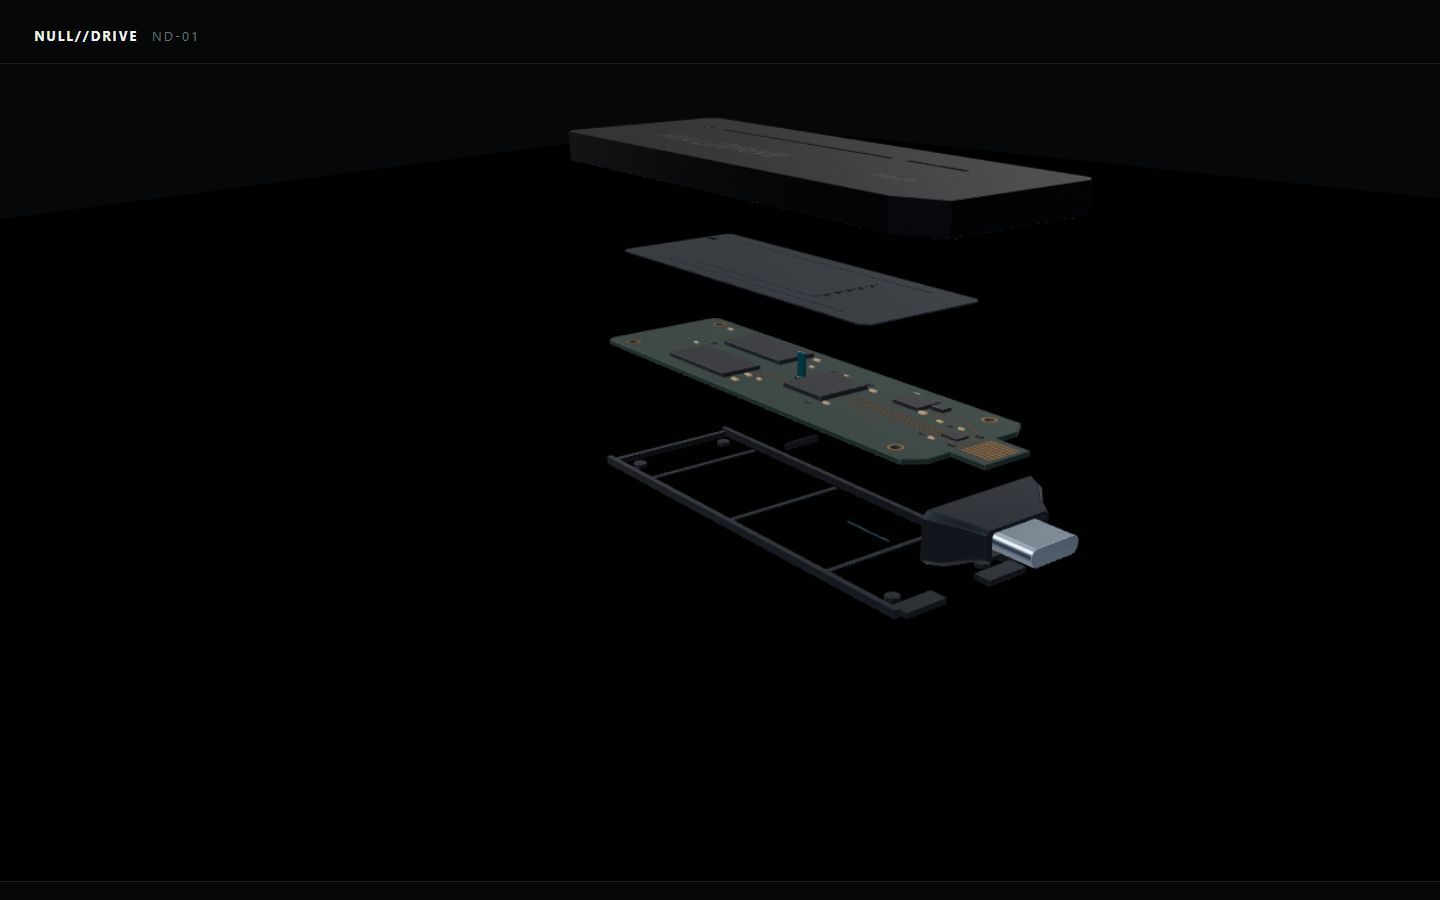
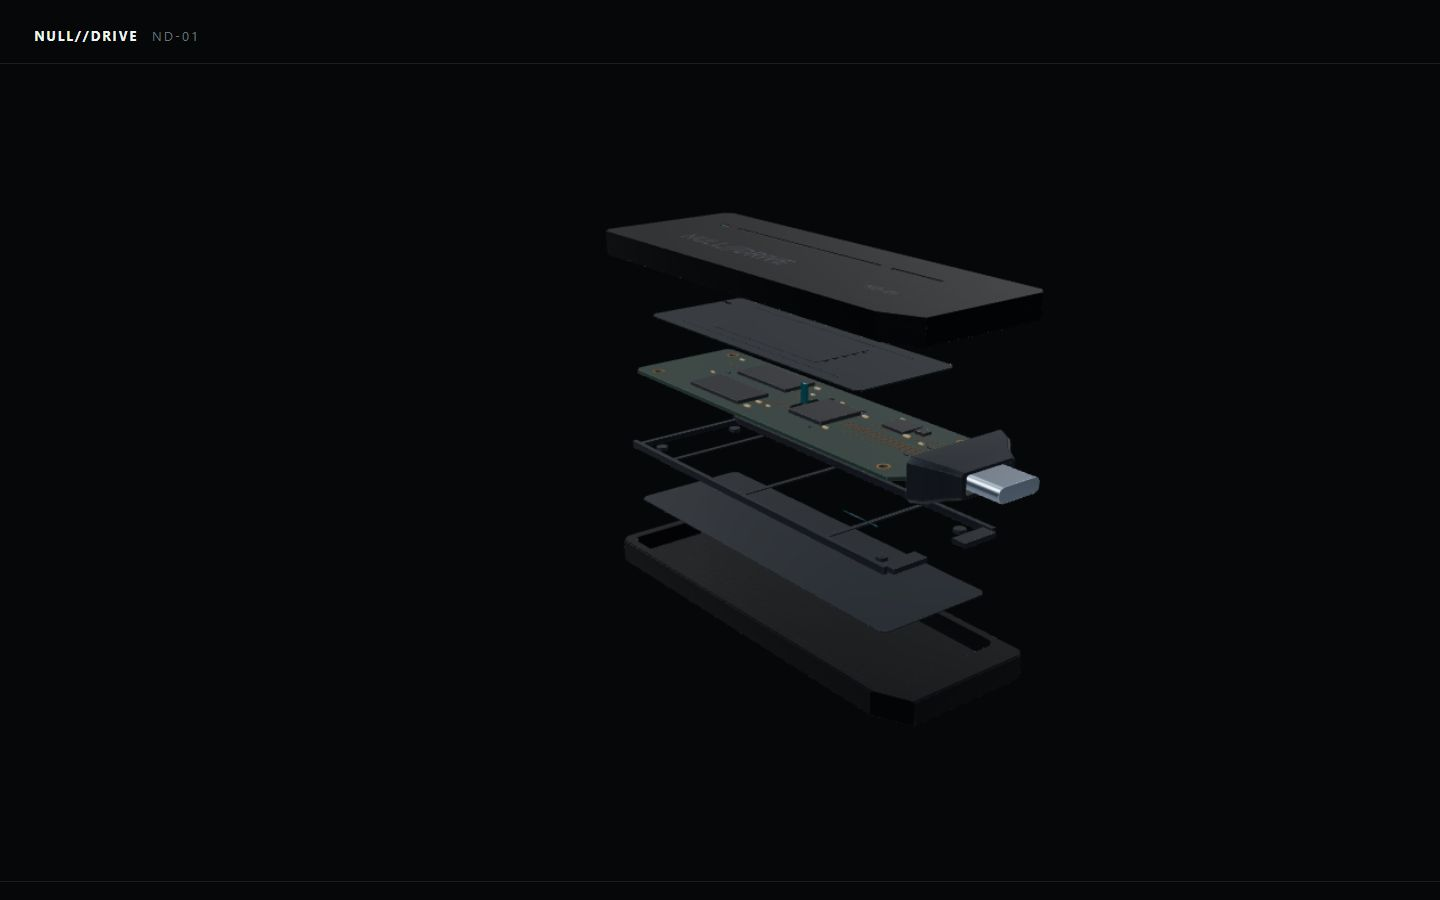
Remove ground-plane intersection

Changed region(s): [[0.4062, 0.2178, 0.75, 0.7778], [0.4062, 0.1244, 0.75, 0.2489]]

diff --git a/src/components/NullDriveScene.jsx b/src/components/NullDriveScene.jsx
@@ -1,6 +1,6 @@
 import { useEffect, useLayoutEffect, useMemo, useRef } from 'react'
 import { useFrame, useThree } from '@react-three/fiber'
-import { ContactShadows, OrbitControls, useGLTF } from '@react-three/drei'
+import { OrbitControls, useGLTF } from '@react-three/drei'
 import * as THREE from 'three'
 import { RoomEnvironment } from 'three/addons/environments/RoomEnvironment.js'
 
@@ -32,12 +32,29 @@ export const REQUIRED_NODES = [
 ]
 
 const EXPLODE_OFFSETS = {
-  Shell_Top: 0.038,
-  Upper_Shield: 0.024,
-  PCB_Main: 0.010,
-  Internal_Frame: -0.010,
-  Lower_Shield: -0.024,
-  Shell_Bottom: -0.038,
+  Shell_Top: 0.028,
+  Upper_Shield: 0.017,
+  PCB_Main: 0.007,
+  Connector_Housing: 0.007,
+  USB_C_Connector: 0.007,
+  Internal_Frame: -0.007,
+  Lower_Shield: -0.017,
+  Shell_Bottom: -0.028,
+}
+
+function detectLocalSeparationAxis(root) {
+  root.updateWorldMatrix(true, true)
+  const size = new THREE.Box3().setFromObject(root).getSize(new THREE.Vector3())
+  const dimensions = [
+    { label: 'X', value: size.x, direction: new THREE.Vector3(1, 0, 0) },
+    { label: 'Y', value: size.y, direction: new THREE.Vector3(0, 1, 0) },
+    { label: 'Z', value: size.z, direction: new THREE.Vector3(0, 0, 1) },
+  ]
+  const vertical = dimensions.reduce((smallest, dimension) => dimension.value < smallest.value ? dimension : smallest)
+  const inverseRoot = root.matrixWorld.clone().invert()
+  const localOrigin = new THREE.Vector3().applyMatrix4(inverseRoot)
+  const localDirection = vertical.direction.clone().applyMatrix4(inverseRoot).sub(localOrigin).normalize()
+  return { label: vertical.label, localDirection, size }
 }
 
 function ResponsiveModel({ mode, rootRotation, onLoaded }) {
@@ -46,6 +63,7 @@ function ResponsiveModel({ mode, rootRotation, onLoaded }) {
   const presentationGroup = useRef()
   const originals = useRef(new Map())
   const rootOriginalRotation = useRef(null)
+  const separationAxis = useRef(new THREE.Vector3(0, 1, 0))
 
   const nodes = useMemo(() => {
     const result = new Map()
@@ -67,7 +85,12 @@ function ResponsiveModel({ mode, rootRotation, onLoaded }) {
     })
 
     const root = nodes.get('NullDrive_Root')
-    if (root) rootOriginalRotation.current = root.rotation.clone()
+    let axisReport = null
+    if (root) {
+      rootOriginalRotation.current = root.rotation.clone()
+      axisReport = detectLocalSeparationAxis(root)
+      separationAxis.current.copy(axisReport.localDirection)
+    }
 
     const missing = REQUIRED_NODES.filter((name) => !nodes.has(name))
     let triangles = 0
@@ -93,6 +116,14 @@ function ResponsiveModel({ mode, rootRotation, onLoaded }) {
     console.table(hierarchy)
     if (missing.length) console.error(`[ND-01] Missing nodes: ${missing.join(', ')}`)
     else console.info(`[ND-01] All ${REQUIRED_NODES.length} required nodes detected.`)
+    if (axisReport) {
+      const { label, localDirection, size } = axisReport
+      console.info(
+        `[ND-01] Explosion axis verified from assembled bounds: world ${label}; ` +
+        `dimensions ${size.x.toFixed(3)} × ${size.y.toFixed(3)} × ${size.z.toFixed(3)}; ` +
+        `root-local (${localDirection.x.toFixed(3)}, ${localDirection.y.toFixed(3)}, ${localDirection.z.toFixed(3)}).`,
+      )
+    }
     console.groupEnd()
 
     onLoaded({ found: REQUIRED_NODES.length - missing.length, missing, triangles, textures: textures.size })
@@ -105,18 +136,31 @@ function ResponsiveModel({ mode, rootRotation, onLoaded }) {
     root.rotation.y += THREE.MathUtils.degToRad(rootRotation)
   }, [nodes, rootRotation])
 
+  const modelScale = size.width < 520 ? 14 : size.width < 820 ? 18 : 23
+
   useFrame((_, delta) => {
     const blend = 1 - Math.exp(-delta * 7)
     Object.entries(EXPLODE_OFFSETS).forEach(([name, offset]) => {
       const object = nodes.get(name)
       const original = originals.current.get(name)
       if (!object || !original) return
-      const targetY = original.position.y + (mode === 'exploded' ? offset : 0)
-      object.position.y = THREE.MathUtils.lerp(object.position.y, targetY, blend)
+      const separation = mode === 'exploded' ? offset : 0
+      const targetX = original.position.x + separationAxis.current.x * separation
+      const targetY = original.position.y + separationAxis.current.y * separation
+      const targetZ = original.position.z + separationAxis.current.z * separation
+      object.position.set(
+        THREE.MathUtils.lerp(object.position.x, targetX, blend),
+        THREE.MathUtils.lerp(object.position.y, targetY, blend),
+        THREE.MathUtils.lerp(object.position.z, targetZ, blend),
+      )
     })
-  })
 
-  const modelScale = size.width < 520 ? 14 : size.width < 820 ? 18 : 23
+    const framingScale = modelScale * (mode === 'exploded' ? 0.86 : 1)
+    if (presentationGroup.current) {
+      const currentScale = presentationGroup.current.scale.x
+      presentationGroup.current.scale.setScalar(THREE.MathUtils.lerp(currentScale, framingScale, blend))
+    }
+  })
 
   return (
     <group ref={presentationGroup} scale={modelScale} rotation={[0, -0.2, 0]} position={[0, 0.08, 0]}>
@@ -162,12 +206,6 @@ export function NullDriveScene({ mode, rootRotation, resetToken, onLoaded }) {
       <directionalLight position={[1, -3, 2]} intensity={1.15} color="#6f858b" />
 
       <ResponsiveModel mode={mode} rootRotation={rootRotation} onLoaded={onLoaded} />
-
-      <ContactShadows position={[0, -0.47, 0]} opacity={0.48} scale={5} blur={2.8} far={2.2} resolution={512} />
-      <mesh rotation={[-Math.PI / 2, 0, 0]} position={[0, -0.49, 0]} receiveShadow>
-        <planeGeometry args={[20, 20]} />
-        <meshBasicMaterial color="#050708" />
-      </mesh>
 
       <OrbitControls
         ref={controls}
